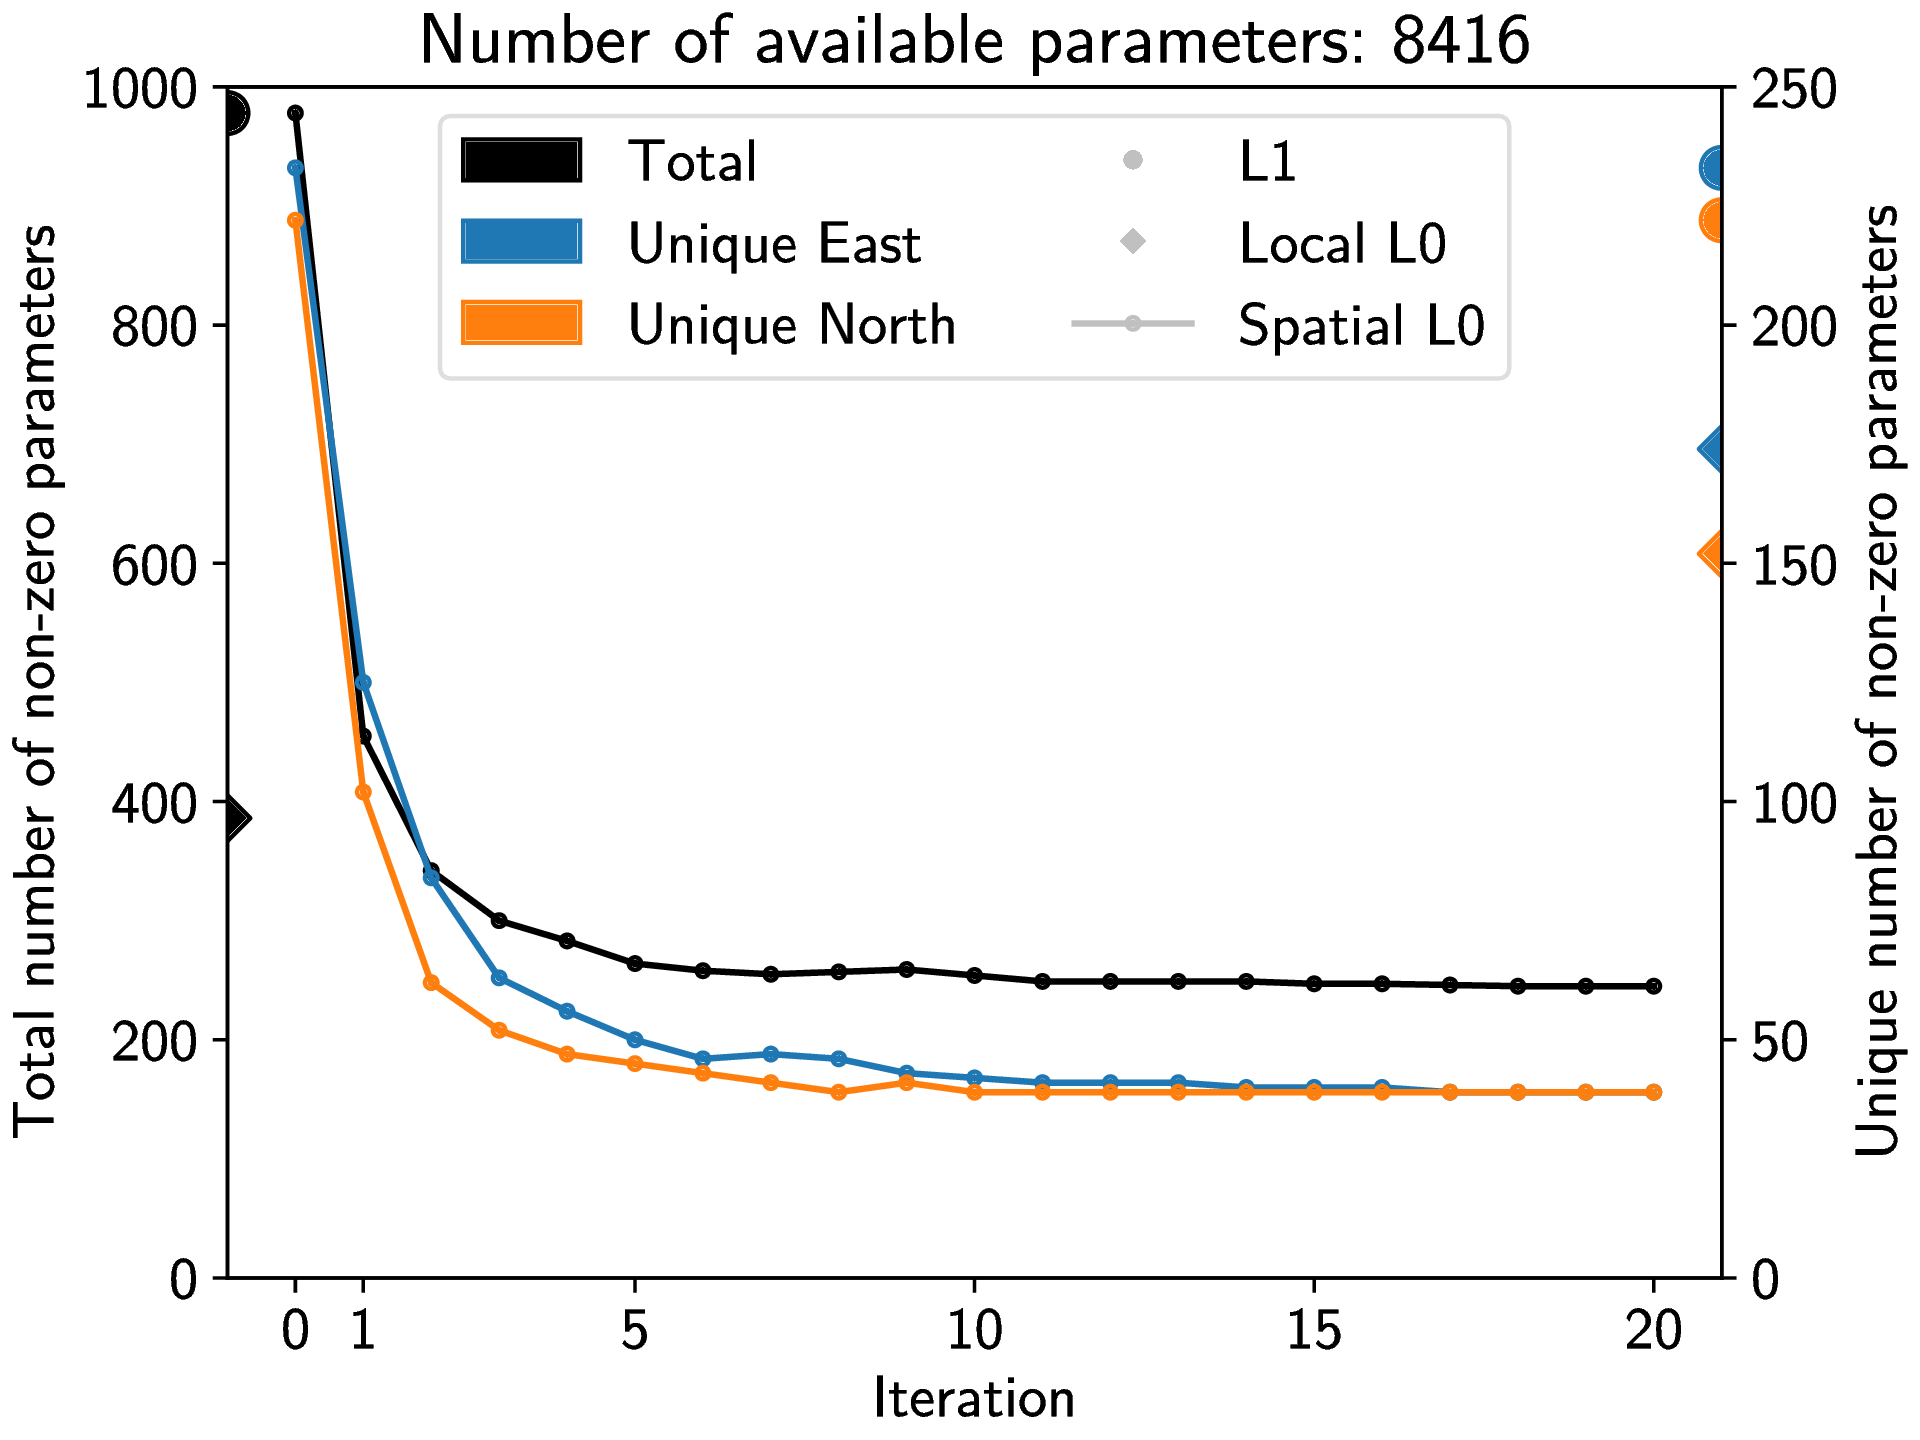
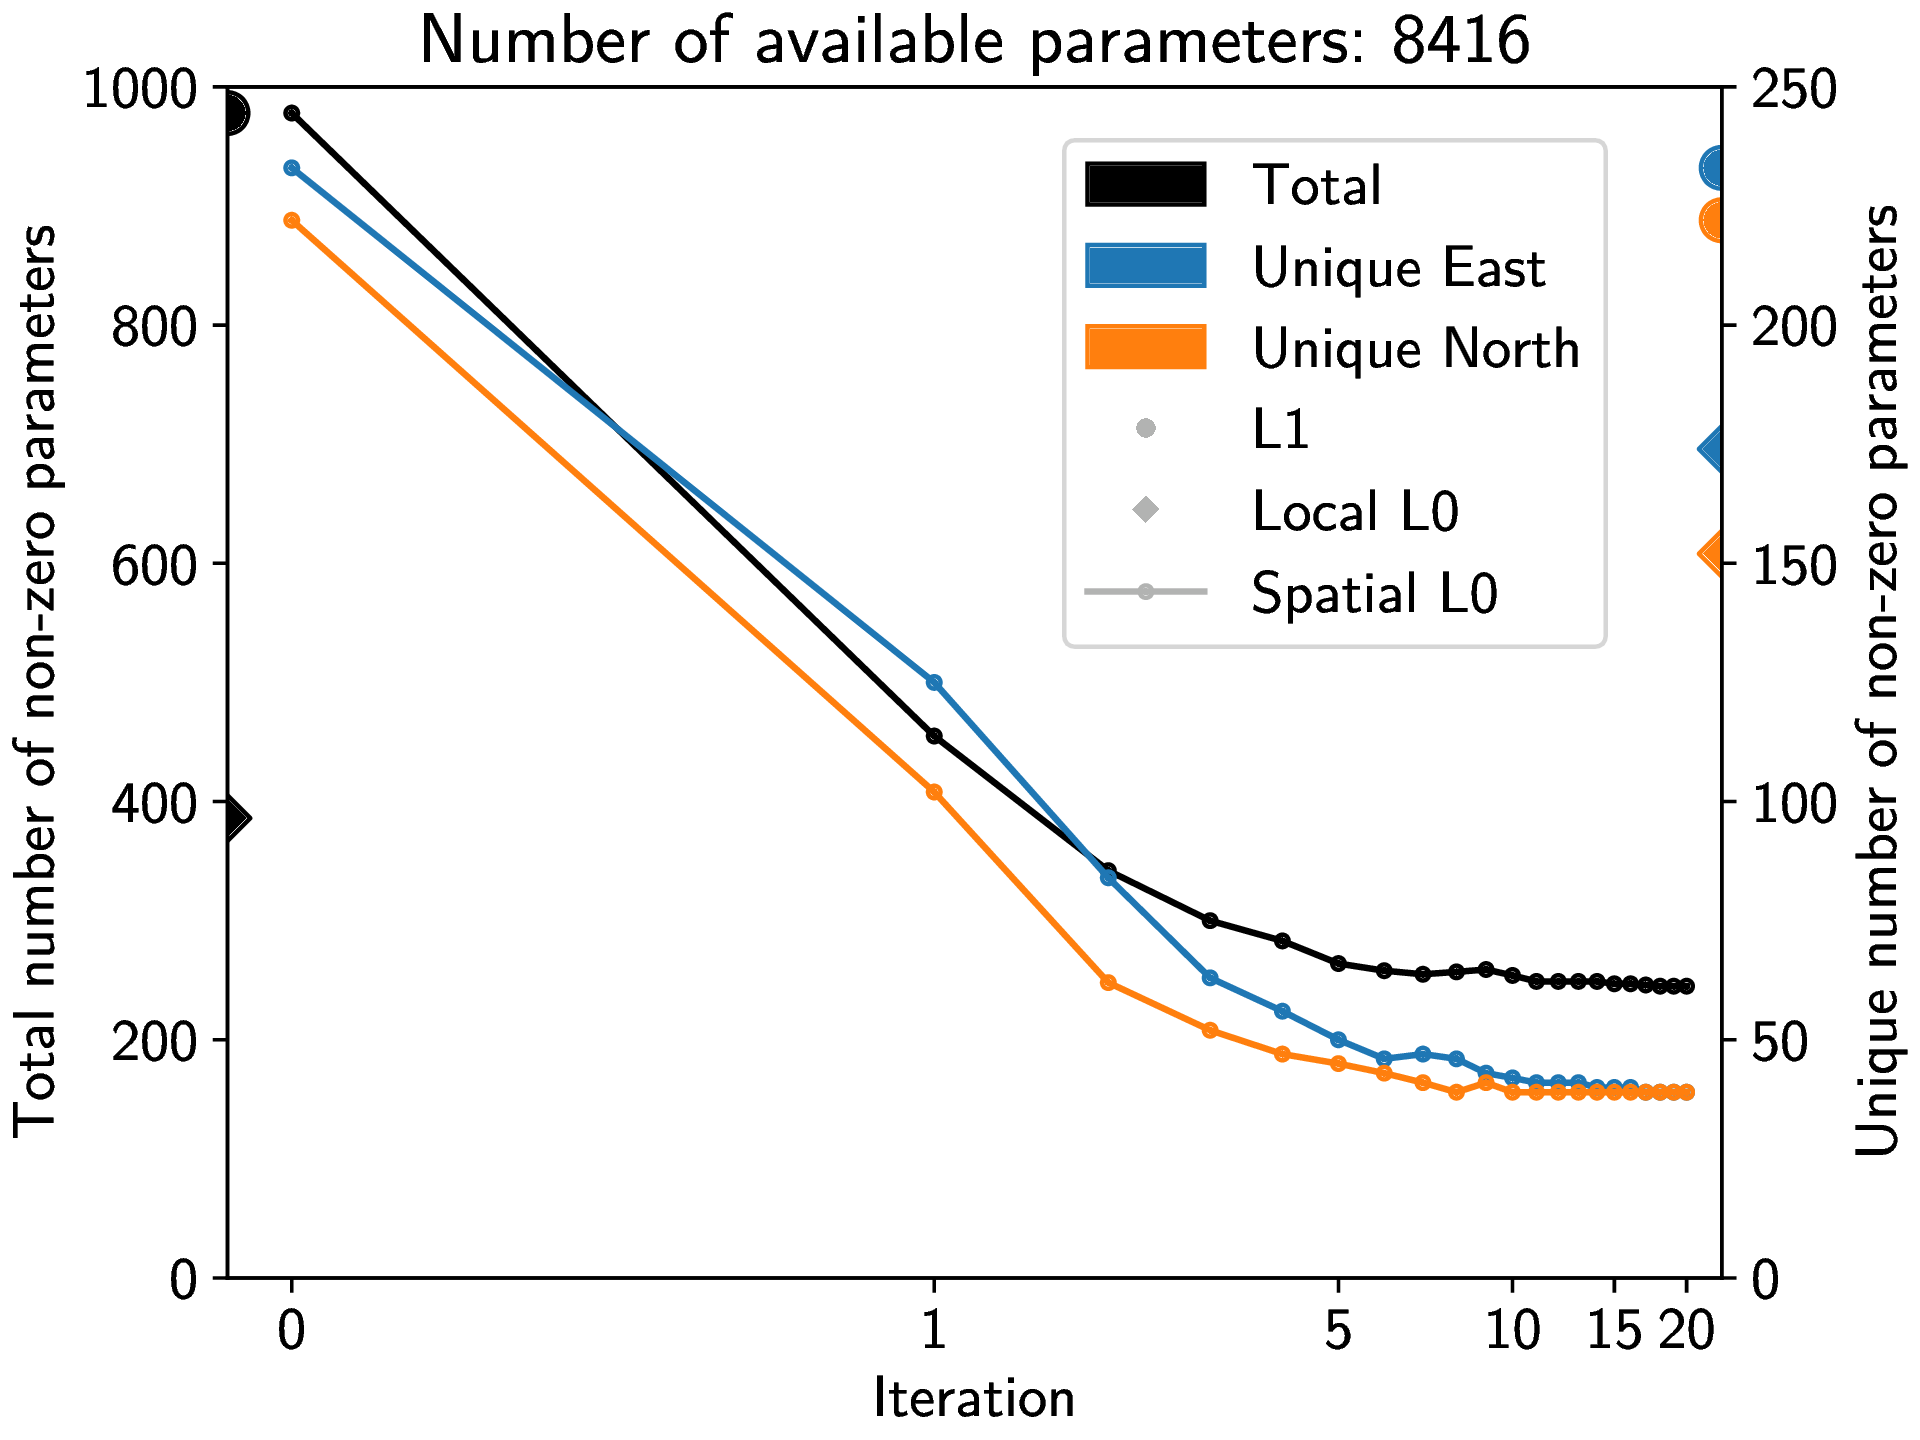
Update tutorial 3 (match AGU 2021 poster state)

diff --git a/scripts/tutorial_3_spatial_sparsity.py b/scripts/tutorial_3_spatial_sparsity.py
@@ -9,12 +9,16 @@ if __name__ == "__main__":
     import os
     os.environ['OMP_NUM_THREADS'] = '1'
     import disstans
-    disstans.defaults["general"]["num_threads"] = 10
+    disstans.defaults["general"]["num_threads"] = 16
 
     # decide output quality, looks & folder
     from pathlib import Path
+    from matplotlib import rcParams
     outdir = Path("out/tutorial_3")
+    rcParams['font.sans-serif'] = ["NewComputerModernSans10"]
+    rcParams['font.size'] = "14"
     fmt = "png"
+    include_resids = True
     os.makedirs(outdir, exist_ok=True)
 
     # initialize RNG
@@ -240,7 +244,8 @@ if __name__ == "__main__":
     figure_stations = ["Jeckle", "Cylon", "Marvish", "Mankith", "Corko", "Tygrar", "Jozga"]
     for s in figure_stations:
         net.gui(station=s, save="base",
-                timeseries=["Displacement", "Res_L1"],
+                timeseries=["Displacement", "Res_L1"]
+                if include_resids else ["Displacement"],
                 save_kw_args={"format": fmt, "dpi": 300},
                 scalogram_kw_args={"ts": "Displacement", "model": "Transient",
                                    "cmaprange": 2})
@@ -277,7 +282,8 @@ if __name__ == "__main__":
     # quick looks
     for s in figure_stations:
         net.gui(station=s, save="local", save_kw_args={"format": fmt, "dpi": 300},
-                timeseries=["Displacement", "Res_L1R5"],
+                timeseries=["Displacement", "Res_L1R5"]
+                if include_resids else ["Displacement"],
                 scalogram_kw_args={"ts": "Displacement", "model": "Transient",
                                    "cmaprange": 2})
 
@@ -319,7 +325,8 @@ if __name__ == "__main__":
     # plot
     for s in figure_stations:
         net.gui(station=s, save="spatial1", save_kw_args={"format": fmt, "dpi": 300},
-                timeseries=["Displacement", "Res_L1R1S1"],
+                timeseries=["Displacement", "Res_L1R1S1"]
+                if include_resids else ["Displacement"],
                 scalogram_kw_args={"ts": "Displacement", "model": "Transient",
                                    "cmaprange": 2})
 
@@ -349,7 +356,8 @@ if __name__ == "__main__":
     for s in figure_stations:
         net.gui(station=s, save="spatial20",
                 save_kw_args={"format": fmt, "dpi": 300},
-                timeseries=["Displacement", "Res_L1R1S20"],
+                timeseries=["Displacement", "Res_L1R1S20"]
+                if include_resids else ["Displacement"],
                 scalogram_kw_args={"ts": "Displacement", "model": "Transient",
                                    "cmaprange": 2})
 
@@ -377,7 +385,8 @@ if __name__ == "__main__":
     # quick looks
     for s in figure_stations:
         net.gui(station=s, save="baseM", save_kw_args={"format": fmt, "dpi": 300},
-                timeseries=["Displacement", "Res_L1M"],
+                timeseries=["Displacement", "Res_L1M"]
+                if include_resids else ["Displacement"],
                 scalogram_kw_args={"ts": "Displacement", "model": "Transient",
                                    "cmaprange": 2})
     # get number of (unique) non-zero parameters
@@ -407,7 +416,8 @@ if __name__ == "__main__":
     # quick looks
     for s in figure_stations:
         net.gui(station=s, save="localM", save_kw_args={"format": fmt, "dpi": 300},
-                timeseries=["Displacement", "Res_L1R5M"],
+                timeseries=["Displacement", "Res_L1R5M"]
+                if include_resids else ["Displacement"],
                 scalogram_kw_args={"ts": "Displacement", "model": "Transient",
                                    "cmaprange": 2})
     # get number of (unique) non-zero parameters
@@ -443,14 +453,16 @@ if __name__ == "__main__":
         if s == "Corko":
             net.gui(station=s, save="spatial20M", save_map=True,
                     save_kw_args={"format": fmt, "dpi": 300},
-                    timeseries=["Displacement", "Res_L1R1S20M"],
+                    timeseries=["Displacement", "Res_L1R1S20M"]
+                    if include_resids else ["Displacement"],
                     scalogram_kw_args={"ts": "Displacement", "model": "Transient",
                                        "cmaprange": 2},
                     rms_on_map={"ts": "Res_L1R1S20M", "comps": [0], "c_max": 1})
         else:
             net.gui(station=s, save="spatial20M",
                     save_kw_args={"format": fmt, "dpi": 300},
-                    timeseries=["Displacement", "Res_L1R1S20M"],
+                    timeseries=["Displacement", "Res_L1R1S20M"]
+                    if include_resids else ["Displacement"],
                     scalogram_kw_args={"ts": "Displacement", "model": "Transient",
                                        "cmaprange": 2})
 
@@ -539,20 +551,22 @@ if __name__ == "__main__":
     fig, ax1 = plt.subplots()
     ax2 = ax1.twinx()
     ax1.plot(stats["list_nonzeros"], c="k", marker=".")
-    ax1.scatter(-1, num_nonzero_base_M, s=100, c="k")
-    ax1.scatter(-1, num_nonzero_local_M, s=60, c="k", marker="D")
+    ax1.scatter(-0.1, num_nonzero_base_M, s=100, c="k")
+    ax1.scatter(-0.1, num_nonzero_local_M, s=60, c="k", marker="D")
     ax1.set_ylim([0, 1000])
     ax1.set_yticks(range(0, 1200, 200))
     ax2.plot(stats["arr_uniques"][:, 0], c="C0", marker=".")
     ax2.plot(stats["arr_uniques"][:, 1], c="C1", marker=".")
-    ax2.scatter(21, num_uniques_base_M[0], s=100, c="C0")
-    ax2.scatter(21, num_uniques_local_M[0], s=60, c="C0", marker="D")
-    ax2.scatter(21, num_uniques_base_M[1], s=100, c="C1")
-    ax2.scatter(21, num_uniques_local_M[1], s=60, c="C1", marker="D")
+    ax2.scatter(23, num_uniques_base_M[0], s=100, c="C0")
+    ax2.scatter(23, num_uniques_local_M[0], s=60, c="C0", marker="D")
+    ax2.scatter(23, num_uniques_base_M[1], s=100, c="C1")
+    ax2.scatter(23, num_uniques_local_M[1], s=60, c="C1", marker="D")
     ax2.set_ylim([0, 250])
     ax2.set_yticks(range(0, 300, 50))
-    ax1.set_xlim([-1, 21])
+    ax1.set_xscale("symlog", linthresh=1)
+    ax1.set_xlim([-0.1, 23])
     ax1.set_xticks([0, 1, 5, 10, 15, 20])
+    ax1.set_xticklabels(["0", "1", "5", "10", "15", "20"])
     ax1.set_xlabel("Iteration")
     ax1.set_ylabel("Total number of non-zero parameters")
     ax2.set_ylabel("Unique number of non-zero parameters")
@@ -562,9 +576,9 @@ if __name__ == "__main__":
                     Line2D([0], [0], c=[1, 1, 1, 0], mfc="0.7", marker="o"),
                     Line2D([0], [0], c=[1, 1, 1, 0], mfc="0.7", marker="D"),
                     Line2D([0], [0], c="0.7", marker=".")]
-    ax1.legend(custom_lines, ["Total", "Unique East", "Unique North",
-                              "L1", "Local L0", "Spatial L0"], loc=9, ncol=2)
     ax1.set_title(f"Number of available parameters: {stats['num_total']}")
+    ax1.legend(custom_lines, ["Total", "Unique East", "Unique North",
+                              "L1", "Local L0", "Spatial L0"], loc=(0.56, 0.53), ncol=1)
     fig.savefig(outdir / f"tutorial_3e_numparams.{fmt}")
     plt.close(fig)
     # second figure is for dict_rms_diff, dict_num_changed
@@ -578,7 +592,9 @@ if __name__ == "__main__":
     ax2.set_ylim([0, 1000])
     ax2.set_yticks([0, 2, 4, 6, 8, 10, 100, 1000])
     ax2.set_yticklabels([0, 2, 4, 6, 8, 10, 100, 1000])
-    ax1.set_xticks([0, 1, 5, 10, 15, 20])
+    ax1.set_xscale("symlog", linthresh=1)
+    ax1.set_xlim([-0.1, 23])
+    ax1.set_xticks([0, 1, 5, 10, 20])
     ax1.set_xlabel("Iteration")
     ax1.set_ylabel("RMS difference of parameters")
     ax2.set_ylabel("Number of changed parameters")
@@ -586,6 +602,26 @@ if __name__ == "__main__":
                     Line2D([0], [0], c="C1", marker=".")]
     ax1.legend(custom_lines, ["RMS Difference", "Changed Parameters"])
     fig.savefig(outdir / f"tutorial_3e_diffs.{fmt}")
+    plt.close(fig)
+    # third figure is just the total number of parameters
+    # can use horizontal line instead of markers on the side
+    fig, ax = plt.subplots(figsize=(4, 3))
+    ax.plot(stats["list_nonzeros"], c="k", marker=".")
+    ax.axhline(num_nonzero_local_M, ls="--", lw=1, c="0.5", zorder=-1)
+    ax.axhline(num_nonzero_base_M, ls=":", lw=1, c="0.5", zorder=-1)
+    ax.set_ylim([0, 1000])
+    ax.set_yticks(range(0, 1200, 200))
+    ax.set_xscale("symlog", linthresh=1)
+    ax.set_xlim([-0.1, 23])
+    ax.set_xticks([0, 1, 5, 10, 20])
+    ax.set_xticklabels(["0", "1", "5", "10", "20"])
+    ax.set_xlabel("Iteration")
+    ax.set_ylabel("Non-zero parameters")
+    custom_lines = [Line2D([0], [0], c="0.5", ls=":", lw=1),
+                    Line2D([0], [0], c="0.5", ls="--", lw=1),
+                    Line2D([0], [0], c="k", marker=".")]
+    ax.legend(custom_lines, ["L1", "Local L0", "Spatial L0"], loc=(0.49, 0.55))
+    fig.savefig(outdir / f"tutorial_3e_numparams_total.{fmt}")
     plt.close(fig)
 
     # make correlation plot, showing the sparsity
@@ -661,6 +697,22 @@ if __name__ == "__main__":
     print("Wormplot for Local-Spatial")
     net.wormplot(ts_description="diff-local-spatial",
                  fname=outdir / "tutorial_3h_worm_diff",
+                 save_kw_args={"format": fmt, "dpi": 300},
+                 colorbar_kw_args={"orientation": "horizontal", "shrink": 0.5},
+                 scale=1e3, annotate_stations=False,
+                 lon_min=-0.1, lon_max=1.1, lat_min=-0.3, lat_max=0.1)
+
+    # make a truth wormplot
+    for station in net:
+        station["truth-trans"] = \
+            Timeseries.from_array(timevector=timevector,
+                                  data=synth_coll[station.name]["trans"],
+                                  src="synthetic",
+                                  data_unit="mm",
+                                  data_cols=["E", "N"])
+    print("Wormplot for Truth")
+    net.wormplot(ts_description="truth-trans",
+                 fname=outdir / "tutorial_3h_worm_truth",
                  save_kw_args={"format": fmt, "dpi": 300},
                  colorbar_kw_args={"orientation": "horizontal", "shrink": 0.5},
                  scale=1e3, annotate_stations=False,
